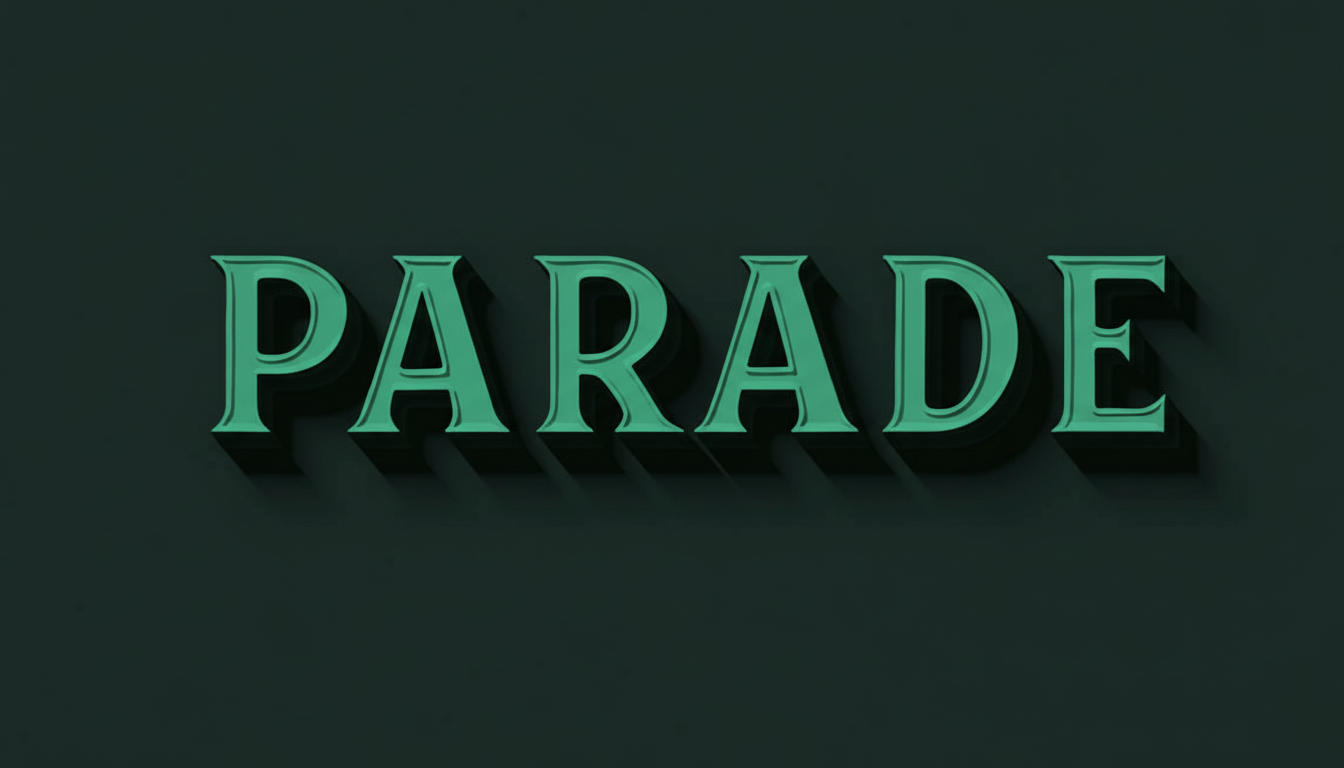
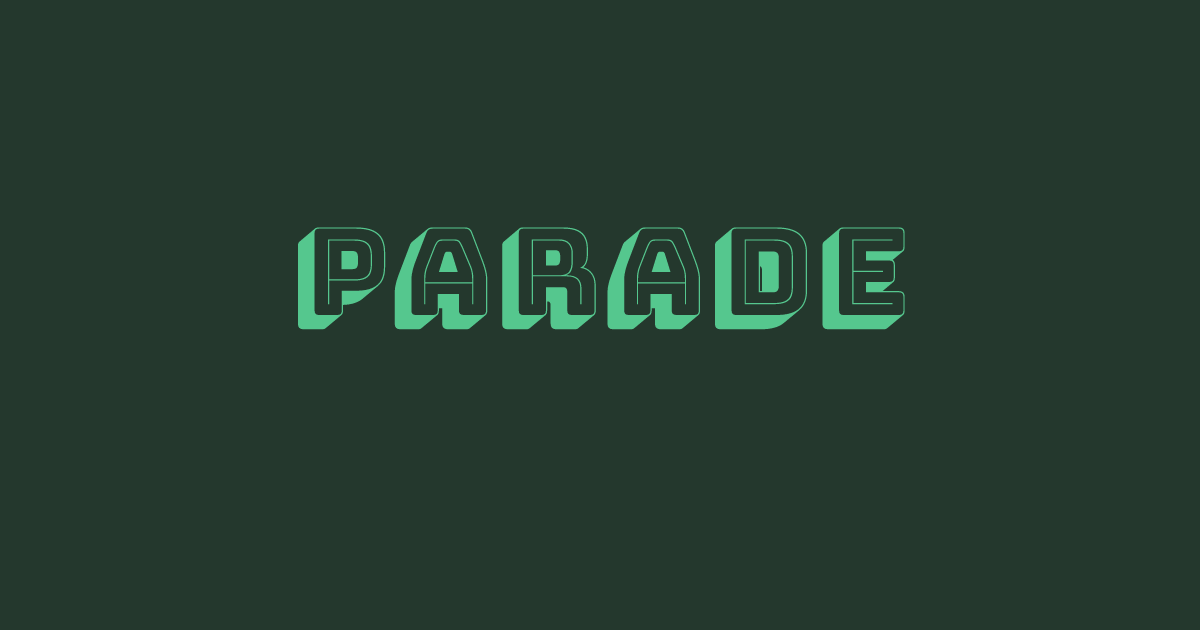
Changes

Changed region(s): [[0.1542, 0.3317, 0.925, 0.6635]]

diff --git a/supabase/functions/og-image/index.ts b/supabase/functions/og-image/index.ts
@@ -1,0 +1,70 @@
+import { initialize, svg2png } from "https://esm.sh/svg2png-wasm@0.6.1";
+
+// TTF version of Bungee Shade from Google Fonts (resvg needs TTF, not woff2)
+const FONT_URL = "https://raw.githubusercontent.com/google/fonts/main/ofl/bungeeshade/BungeeShade-Regular.ttf";
+
+let initialized = false;
+let fontData: Uint8Array | null = null;
+
+async function init() {
+  if (initialized) return;
+  
+  const [wasmRes, fontRes] = await Promise.all([
+    fetch("https://esm.sh/svg2png-wasm@0.6.1/svg2png_wasm_bg.wasm"),
+    fetch(FONT_URL),
+  ]);
+  
+  fontData = new Uint8Array(await fontRes.arrayBuffer());
+  console.log("Font loaded, size:", fontData.length);
+  
+  await initialize(wasmRes);
+  initialized = true;
+}
+
+Deno.serve(async (_req) => {
+  try {
+    await init();
+
+    const width = 1200;
+    const height = 630;
+    // Exact colors from the app's index.css
+    // Background: hsl(150, 22%, 18%) = rgb(36, 56, 45)  
+    // Text: hsl(150, 50%, 55%) = rgb(85, 199, 142)
+    const bgColor = "#24382D";
+    const textColor = "#55C78E";
+
+    const svg = `<?xml version="1.0" encoding="UTF-8"?>
+<svg xmlns="http://www.w3.org/2000/svg" width="${width}" height="${height}" viewBox="0 0 ${width} ${height}">
+  <rect width="${width}" height="${height}" fill="${bgColor}" />
+  <text
+    x="${width / 2}"
+    y="${height / 2}"
+    dominant-baseline="central"
+    text-anchor="middle"
+    font-family="Bungee Shade"
+    font-size="120"
+    letter-spacing="6"
+    fill="${textColor}"
+  >parade</text>
+</svg>`;
+
+    console.log("Rendering SVG to PNG...");
+    const png = await svg2png(svg, {
+      width,
+      height,
+      fonts: [fontData!],
+    });
+    console.log("PNG generated, size:", png.length);
+
+    return new Response(png, {
+      headers: {
+        "Content-Type": "image/png",
+        "Cache-Control": "public, max-age=31536000, immutable",
+        "Access-Control-Allow-Origin": "*",
+      },
+    });
+  } catch (error) {
+    console.error("Error generating OG image:", error);
+    return new Response(`Error: ${error.message}`, { status: 500 });
+  }
+});
